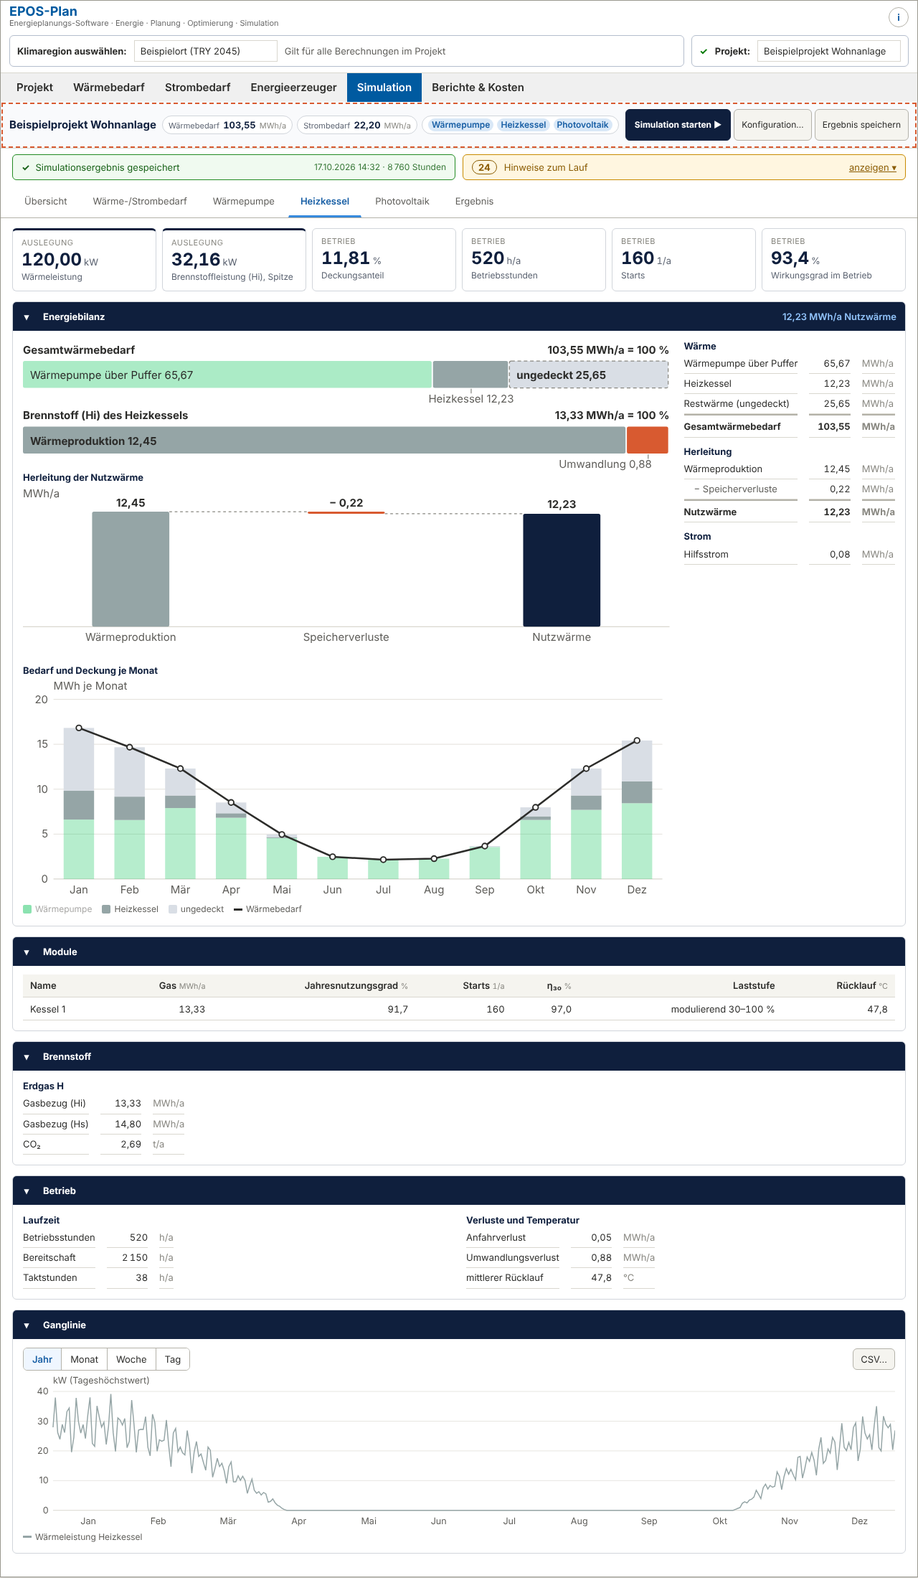
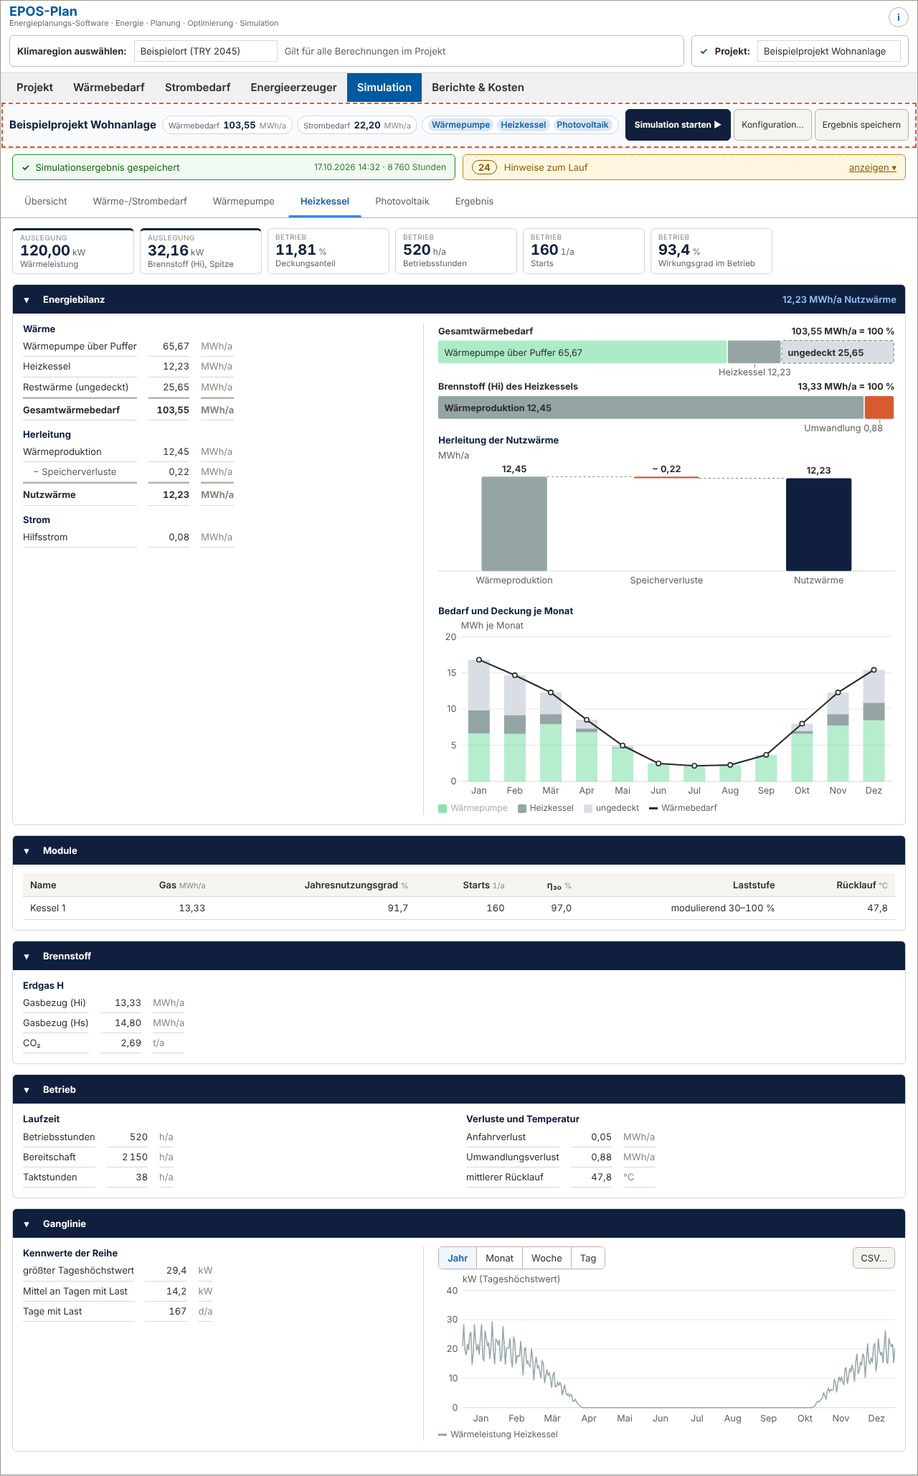
Mockup Simulationsseite: Tabellen links, schmalere Grafiken, Energiefluss klappbar
Rueckmeldung des Anwenders vom 17.10.2026: In jeder Karte mit Grafik
steht das Zahlenraster links (45 %), die Grafik rechts (55 %); Bilanz-
balken, Wasserfall, Monatssaeulen, Energiefluss und Ganglinie auf
schmalere Bildbreite umgestellt, Ringe mit Zahlen links. Kennzahl-
kacheln 170 x 64 px, Zahl 20 px, Beschriftungen einzeilig. Energiefluss
der Uebersicht mit Raster Quellen/Nutzen, als Vorgabe eingeklappt;
Erlaeuterung (Regeln, SD-Q3) angepasst. Abzuege A und B neu.

Claude-Session: https://claude.ai/code/session_01FcdHgdFFFApse4Gup4fXJi

diff --git a/Dokumentation/aktuell/Mockups/Simulationsseite_Neuordnung.html b/Dokumentation/aktuell/Mockups/Simulationsseite_Neuordnung.html
@@ -21,8 +21,10 @@
     A "Kopfband" (Empfehlung): die Spalte entfaellt; Kontextband in einer Zeile ueber dem Ergebnis,
       darunter Meldezeile (Erfolgsbanner | Laufband), Reiterleiste in voller Breite, Blatt.
     B "Schmale Seitenleiste": Spalte 232 px, haftend, mit Kennzahlen, Knoepfen und senkrechten Reitern.
-  REITERSCHEMA (jedes Blatt, Reihenfolge fest): 1 Kennzahlkacheln (Auslegung zuerst) - 2 Energiebilanz
-  (Grafik | dl-Raster) - 3 Energiefluss (nur Uebersicht) - 4 Betrieb und Module - 5 Ganglinie.
+  REITERSCHEMA (jedes Blatt, Reihenfolge fest): 1 Kennzahlkacheln (Auslegung zuerst, rund 64 px hoch) -
+  2 Energiebilanz (dl-Raster links | Grafik rechts, rund 55 % der Kartenbreite) - 3 Energiefluss (nur
+  Uebersicht, eingeklappt als Vorgabe) - 4 Betrieb und Module - 5 Ganglinie (Kennwerte links | Bild rechts).
+  Rueckmeldung des Anwenders 17.10.2026: Tabellen links, Grafiken schmaler, Kacheln kleiner, Energiefluss klappbar.
 
   ALLE ZAHLEN SIND BEISPIELWERTE, in sich stimmig (MWh/a, gerundet auf 0,01):
     Waerme   Bedarf 103,55 = Heizung 88,20 + Warmwasser 15,35
@@ -40,7 +42,7 @@
   Keine Hersteller- oder Produktdaten; Namen neutral ("Kessel 1", "Modul 1", "WR 1").
 
   BEDIENBAR: Umschalter A | B, die sechs Reiter (Ergebnis nur Platzhalter), Zoomleiste und Gruppenkoepfe
-  (klappen). Das Mockup RECHNET NICHTS und schreibt nichts; die Knoepfe melden nur.
+  (klappen). Adresszusatz ?v=a|b&r=<reiter>&f=auf waehlt Variante, Reiter und den offenen Energiefluss. Das Mockup RECHNET NICHTS und schreibt nichts; die Knoepfe melden nur.
   EIGENSTAENDIG: kein CDN, keine Schriftdatei von aussen; Grafiken als inline-SVG aus dem Skript.
   FARBEN: Token woertlich aus EPOS.UI/wwwroot/epos-ui.css (:root), Reihenfarben woertlich aus
   EPOS.UI.Daten/Simulation/SimulationErgebnisHuelle.Bilder.cs (R_WP, R_KESSEL, R_HEIZSTAB, R_REST_GRAU);
@@ -218,14 +220,14 @@ button { font: inherit; }
 .mitleiste .meldezeile { padding: 12px 16px 0; }
 
 /* ---- Blatt: Kacheln ---------------------------------------------------- */
-.kacheln { display: grid; grid-template-columns: repeat(6, minmax(0, 1fr)); gap: 8px; margin-bottom: 14px; }
-.kachel { display: flex; flex-direction: column; gap: 2px; padding: 10px 12px; background: var(--epos-karte-flaeche);
+.kacheln { display: grid; grid-template-columns: repeat(6, minmax(0, 170px)); gap: 8px; margin-bottom: 14px; }
+.kachel { display: flex; flex-direction: column; gap: 0; height: 64px; justify-content: center; padding: 4px 10px; background: var(--epos-karte-flaeche);
   border: 1px solid var(--epos-karte-rahmen); border-radius: var(--epos-ecke); color: var(--epos-karte-text); min-width: 0; }
 .kachel--auslegung { border-top: 3px solid var(--epos-karte-titel); }
-.kachel .k-art { font-size: 11px; text-transform: uppercase; letter-spacing: .04em; color: var(--epos-text-sehr-leise); }
-.kachel .k-wert { font-size: 24px; line-height: 1.15; font-weight: 700; color: var(--epos-karte-titel); font-variant-numeric: tabular-nums; white-space: nowrap; }
-.kachel .k-wert small { font-size: 13px; font-weight: 400; color: var(--epos-karte-text); margin-left: 3px; }
-.kachel .k-titel { font-size: 12px; color: var(--epos-karte-text); }
+.kachel .k-art { font-size: 10px; line-height: 1.3; white-space: nowrap; overflow: hidden; text-overflow: ellipsis; text-transform: uppercase; letter-spacing: .04em; color: var(--epos-text-sehr-leise); }
+.kachel .k-wert { font-size: 20px; line-height: 1.15; font-weight: 700; color: var(--epos-karte-titel); font-variant-numeric: tabular-nums; white-space: nowrap; }
+.kachel .k-wert small { font-size: 12px; font-weight: 400; color: var(--epos-karte-text); margin-left: 3px; }
+.kachel .k-titel { font-size: 11.5px; line-height: 1.3; color: var(--epos-karte-text); white-space: nowrap; overflow: hidden; text-overflow: ellipsis; }
 .kachel--leer .k-wert { color: var(--epos-text-sehr-leise); }
 
 /* ---- Blatt: Gruppenkopf und Karte -------------------------------------- */
@@ -237,7 +239,8 @@ button { font: inherit; }
 .gruppenkopf .summe { color: var(--epos-gruppenkopf-summe); font-weight: 600; }
 .gruppe-inhalt { padding: 12px 14px 14px; }
 .gruppe.zu .gruppe-inhalt { display: none; }
-.zweispaltig { display: grid; grid-template-columns: minmax(0, 1fr) max-content; gap: 20px; align-items: start; }
+.zweispaltig { display: grid; grid-template-columns: minmax(0, 45fr) minmax(0, 55fr); gap: 20px; align-items: start; }
+.zweispaltig > .grafikspalte { border-left: 1px solid var(--epos-rahmen-leise); padding-left: 20px; min-width: 0; }
 .unterteil + .unterteil { margin-top: 14px; }
 .unterkopf { font-weight: 700; color: var(--epos-karte-titel); margin: 0 0 4px; }
 .legende { display: flex; flex-wrap: wrap; gap: 4px 14px; margin: 4px 0 0; padding: 0; list-style: none; font-size: 12px; color: var(--epos-text-leise); }
@@ -267,7 +270,7 @@ table.raster { border-collapse: collapse; width: 100%; }
 .betrieb-raster { display: grid; grid-template-columns: minmax(0, 1fr) minmax(0, 1fr); gap: 20px; }
 
 /* ---- Ringe, Ganglinie -------------------------------------------------- */
-.ringzeile { display: grid; grid-template-columns: 220px 220px minmax(0, 1fr); gap: 20px; align-items: center; }
+.ringpaar { display: grid; grid-template-columns: minmax(0, 190px) minmax(0, 190px); gap: 16px; justify-content: center; }
 .ringlegende h4 { margin: 8px 0 2px; font-size: 13px; color: var(--epos-karte-titel); }
 .ringlegende h4:first-child { margin-top: 0; }
 .zoomleiste { display: flex; align-items: center; gap: 6px; margin-bottom: 6px; }
@@ -383,11 +386,11 @@ svg.grafik .halo { paint-order: stroke; stroke: #fff; stroke-width: 3px; stroke-
 <section>
   <h2>Regeln des Schemas</h2>
   <ol>
-    <li><b>Kennzahlkacheln</b> — eine Zeile, fünf bis sechs Kacheln; Auslegung (dunkle Oberkante) zuerst, dann Betrieb.</li>
-    <li><b>Energiebilanz</b> — Gruppenkopf, links Grafik (Bilanzbalken, Herleitung als Wasserfall, Monatssäulen mit dem Erzeuger des Blattes hervorgehoben), rechts das dl-Raster Beschriftung | Zahl | Einheit mit fetter Summenzeile.</li>
-    <li><b>Energiefluss</b> — nur auf der Übersicht: Sankey von den Quellen über Hausnetz und Wandler zum Nutzen, darunter die Ringe Wärme- und Stromdeckung.</li>
+    <li><b>Kennzahlkacheln</b> — eine Zeile, fünf bis sechs Kacheln, je höchstens 170 × 64 px (Zahl 20 px, Rubrik und Beschriftung einzeilig); Auslegung (dunkle Oberkante) zuerst, dann Betrieb.</li>
+    <li><b>Energiebilanz</b> — Gruppenkopf, links das dl-Raster Beschriftung | Zahl | Einheit mit fetter Summenzeile (rund 45 %), rechts die Grafik (rund 55 %: Bilanzbalken, Herleitung als Wasserfall, Monatssäulen mit dem Erzeuger des Blattes hervorgehoben). Dieselbe Teilung gilt für jede Karte mit Grafik: Zahlen links, Bild rechts.</li>
+    <li><b>Energiefluss</b> — nur auf der Übersicht, eigener Gruppenkopf, als Vorgabe eingeklappt (Kopfzeile mit Kurzsumme „Quellen 132,93 MWh/a → Nutzen“); aufgeklappt links Quellen und Nutzen als Raster, rechts das Sankey über Hausnetz und Wandler. Darunter, immer sichtbar, die Ringe Wärme- und Stromdeckung und die Bilanz.</li>
     <li><b>Betrieb und Module</b> — Gruppenköpfe (einklappbar): Modultabelle, Brennstoff, Betrieb.</li>
-    <li><b>Ganglinie</b> — zuletzt, mit Zoomleiste Jahr | Monat | Woche | Tag und „CSV…“.</li>
+    <li><b>Ganglinie</b> — zuletzt; links Kennwerte der Reihe, rechts das Bild mit Zoomleiste Jahr | Monat | Woche | Tag und „CSV…“.</li>
   </ol>
 </section>
 <section class="breit">
@@ -432,7 +435,7 @@ svg.grafik .halo { paint-order: stroke; stroke: #fff; stroke-width: 3px; stroke-
   <ul>
     <li><b>SD-Q1</b> Variante A (Kopfband) oder B (schmale Seitenleiste)? Empfehlung A.</li>
     <li><b>SD-Q2</b> Kacheln je Reiter: die Auswahl oben bestätigen oder ändern (höchstens sechs).</li>
-    <li><b>SD-Q3</b> Energiefluss nur auf der Übersicht oder je Technologiereiter mit hervorgehobenem Erzeuger?</li>
+    <li><b>SD-Q3</b> Energiefluss: in der Übersicht als eigener Gruppenkopf, eingeklappt als Vorgabe (Vorschlag nach Rückmeldung des Anwenders). Offen bleibt, ob er auch je Technologiereiter mit hervorgehobenem Erzeuger erscheint.</li>
     <li><b>SD-Q4</b> Betriebsblöcke einklappbar, mit gemerktem Zustand je Anwender?</li>
     <li><b>SD-Q5</b> Ganglinie unten im Blatt oder als eigener Unterreiter?</li>
   </ul>
@@ -481,14 +484,14 @@ const esc = s => String(s).replace(/&/g, "&amp;").replace(/</g, "&lt;");
 // ======================================================================= Bausteine
 function kacheln(liste) {
   return '<div class="kacheln">' + liste.map(k =>
-    `<div class="kachel${k.a ? " kachel--auslegung" : ""}${k.w === null ? " kachel--leer" : ""}">` +
+    `<div class="kachel${k.a ? " kachel--auslegung" : ""}${k.w === null ? " kachel--leer" : ""}" title="${k.t}">` +
     `<span class="k-art">${k.a ? "Auslegung" : "Betrieb"}</span>` +
     `<span class="k-wert">${k.w === null ? "—" : k.w}<small>${k.e}</small></span>` +
     `<span class="k-titel">${k.t}</span></div>`).join("") + "</div>";
 }
-function gruppe(titel, inhalt, summeText) {
-  return `<section class="gruppe"><button type="button" class="gruppenkopf" aria-expanded="true">` +
-    `<span class="sym">▾</span><span>${titel}</span><span class="summe">${summeText || ""}</span></button>` +
+function gruppe(titel, inhalt, summeText, zu) {
+  return `<section class="gruppe${zu ? " zu" : ""}"><button type="button" class="gruppenkopf" aria-expanded="${!zu}">` +
+    `<span class="sym">${zu ? "▸" : "▾"}</span><span>${titel}</span><span class="summe">${summeText || ""}</span></button>` +
     `<div class="gruppe-inhalt">${inhalt}</div></section>`;
 }
 function werte(bloecke) {
@@ -517,7 +520,7 @@ function tabelle(kopf, zeilen, summenzeile) {
 
 // ---- Bilanzbalken: 100 % = Gesamtwert, Segmente mit Beschriftung -------------------------------
 function bilanzbalken(balken) {
-  const B = 720, passt = (seg, ges) => B * seg.w / ges > `${seg.t} ${zahl(seg.w, 2)}`.length * 6.6 + 12;
+  const B = 600, passt = (seg, ges) => B * seg.w / ges > `${seg.t} ${zahl(seg.w, 2)}`.length * 6.6 + 12;
   const zeilen = balken.map(b => b.teile.filter(seg => !passt(seg, b.gesamt)).length);
   const hoehe = balken.reduce((h, b, i) => h + 58 + Math.max(zeilen[i], 1) * 15, 0);
   let s = `<svg class="grafik" viewBox="0 0 ${B} ${hoehe}" role="img" aria-label="Bilanzbalken">`;
@@ -548,7 +551,7 @@ function bilanzbalken(balken) {
 
 // ---- Wasserfall: senkrechte Stufen ---------------------------------------------------------------
 function wasserfall(stufen, einheit) {
-  const B = 720, H = 186, unten = 156, oben = 28, n = stufen.length, spalte = B / n, bw = Math.min(86, spalte * 0.56);
+  const B = 600, H = 190, unten = 160, oben = 36, n = stufen.length, spalte = B / n, bw = Math.min(86, spalte * 0.56);
   let max = 0, lauf = 0;
   for (const st of stufen) { if (st.art === "summe") lauf = st.w; else lauf += st.w; max = Math.max(max, lauf); }
   const y = v => unten - (unten - oben) * v / max;
@@ -573,7 +576,7 @@ function wasserfall(stufen, einheit) {
 
 // ---- Monatssaeulen: gestapelt, Bedarf als Linie -------------------------------------------------
 function monatssaeulen(reihen, linie, extraLinie) {
-  const B = 720, H = 246, l = 34, r = 8, oben = 22, unten = 222;
+  const B = 600, H = 236, l = 30, r = 4, oben = 22, unten = 212;
   const sums = MONATE.map((_, m) => summe(reihen.map(rh => rh.d[m])));
   const max = Math.ceil(Math.max(...sums, ...(linie || [0]), ...(extraLinie ? extraLinie.d : [0])) / 4) * 4;
   const y = v => unten - (unten - oben) * v / max;
@@ -620,9 +623,9 @@ function ring(teile, mitte, unter) {
 
 // ---- Energiefluss (Sankey) -----------------------------------------------------------------------
 function energiefluss() {
-  const k = 2.05, gap = 16, nw = 14, X = [190, 450, 720, 1000], oben = 26;
+  const k = 1.7, gap = 14, nw = 12, X = [112, 248, 380, 512], oben = 26, BREITE = 640;
   const N = {
-    rest:  { c: 0, t: "Wärme ungedeckt", f: F.rest },
+    rest:  { c: 0, t: "ungedeckt", f: F.rest },
     gas:   { c: 0, t: "Gas (Hi)", f: F.gas },
     umw:   { c: 0, t: "Umweltwärme", f: F.umwelt },
     pv:    { c: 0, t: "Photovoltaik", f: F.pv },
@@ -658,7 +661,7 @@ function energiefluss() {
   const ausOff = new Map(), einOff = new Map();
   for (const v of V.slice().sort((p, q) => (N[p[1]].y - N[q[1]].y))) { const a = N[v[0]]; ausOff.set(v, a.oa); a.oa += v[2] * k; }
   for (const v of V.slice().sort((p, q) => (N[p[0]].y - N[q[0]].y))) { const b = N[v[1]]; einOff.set(v, b.oe); b.oe += v[2] * k; }
-  let s = `<svg class="grafik" viewBox="0 0 1200 ${H.toFixed(0)}" role="img" aria-label="Energiefluss">`;
+  let s = `<svg class="grafik" viewBox="0 0 ${BREITE} ${H.toFixed(0)}" role="img" aria-label="Energiefluss">`;
   for (const v of V) {
     const a = N[v[0]], b = N[v[1]], h = v[2] * k;
     const x0 = X[a.c] + nw, x1 = X[b.c], y0 = a.y + ausOff.get(v), y1 = b.y + einOff.get(v), xm = (x0 + x1) / 2;
@@ -668,19 +671,21 @@ function energiefluss() {
   for (const [id, n] of Object.entries(N)) {
     s += `<rect x="${X[n.c]}" y="${n.y.toFixed(1)}" width="${nw}" height="${Math.max(n.h, 2).toFixed(1)}" fill="${n.f}"${id === "rest" ? ' stroke="#888780" stroke-dasharray="3 2"' : ""}/>`;
     const my = n.y + n.h / 2;
-    const txt = `<tspan class="fett">${n.t}</tspan> ${zahl(n.w, 2)}`;
-    if (n.c === 0) s += `<text x="${X[0] - 8}" y="${(my + 4).toFixed(1)}" text-anchor="end">${txt}</text>`;
-    else if (n.c === 3) s += `<text x="${X[3] + nw + 8}" y="${(my + 4).toFixed(1)}">${txt}</text>`;
-    else s += `<text x="${X[n.c] + nw + 6}" y="${(n.y - 5).toFixed(1)}" class="halo">${txt}</text>`;
+    const zwei = (x, y, anker) => `<text x="${x}" y="${(y - 2).toFixed(1)}" text-anchor="${anker}" class="fett">${n.t}</text>` +
+      `<text x="${x}" y="${(y + 11).toFixed(1)}" text-anchor="${anker}" class="leise">${zahl(n.w, 2)}</text>`;
+    if (n.c === 0) s += zwei(X[0] - 6, my, "end");
+    else if (n.c === 3) s += zwei(X[3] + nw + 6, my, "start");
+    else s += `<text x="${n.c === 2 ? X[n.c] + nw : X[n.c] + nw + 4}" y="${(n.y - 5).toFixed(1)}" text-anchor="${n.c === 2 ? "end" : "start"}" class="halo"><tspan class="fett">${n.t}</tspan> ${zahl(n.w, 2)}</text>`;
   }
   ["Quellen", "Hausnetz", "Wandler", "Nutzen"].forEach((t, c) =>
-    s += `<text x="${c === 0 ? X[0] + nw : X[c]}" y="12" text-anchor="${c === 0 ? "end" : "start"}" class="leise">${t} · MWh/a</text>`);
+    s += `<text x="${c === 0 ? X[0] + nw : X[c]}" y="12" text-anchor="${c === 0 ? "end" : "start"}" class="leise">${t}</text>`);
+  s += `<text x="${BREITE}" y="12" text-anchor="end" class="leise">MWh/a</text>`;
   return s + "</svg>";
 }
 
 // ---- Ganglinie -----------------------------------------------------------------------------------
-function ganglinie(art, farbe, maxKw) {
-  const B = 1160, H = 204, l = 40, oben = 22, unten = 180;
+function ganglinie(art, farbe, maxKw, kenn) {
+  const B = 600, H = 200, l = 32, oben = 22, unten = 176;
   const achse = Math.ceil(maxKw / 20) * 20;
   const y = v => unten - (unten - oben) * v / achse;
   let d = "";
@@ -692,6 +697,7 @@ function ganglinie(art, farbe, maxKw) {
     else if (art === "pv") v = maxKw * (0.15 + 0.6 * (1 - winter)) * (0.45 + 0.55 * rausch);
     else if (art === "wp") v = maxKw * Math.min(0.92, 0.12 + 0.8 * winter * (0.7 + 0.3 * rausch));
     else v = maxKw * (0.08 + 0.85 * winter * (0.75 + 0.25 * rausch));
+    kenn.max = Math.max(kenn.max || 0, v); if (v > 0.5) { kenn.tage = (kenn.tage || 0) + 1; kenn.summe = (kenn.summe || 0) + v; }
     d += `${t ? "L" : "M"}${(l + (B - l) * t / 364).toFixed(1)},${y(v).toFixed(1)} `;
   }
   let s = `<svg class="grafik" viewBox="0 0 ${B} ${H}" role="img" aria-label="Ganglinie">`;
@@ -707,11 +713,17 @@ function ganglinienblock(titel, art, farbe, maxKw) {
   const zoom = '<div class="zoomleiste"><span class="seg" role="group" aria-label="Zeitraum">' +
     ["Jahr", "Monat", "Woche", "Tag"].map((z, i) => `<button type="button" data-zoom="${z}" aria-pressed="${i === 0}">${z}</button>`).join("") +
     '</span><span class="fueller"></span><button type="button" class="knopf knopf--klein" data-meldung="Exportiert die Reihe als CSV.">CSV…</button></div>';
-  return gruppe("Ganglinie", zoom + ganglinie(art, farbe, maxKw) + legende([{ f: farbe, t: titel, l: true }]));
+  const kenn = {}, bild = ganglinie(art, farbe, maxKw, kenn);
+  const links = werte([{ kopf: "Kennwerte der Reihe", zeilen: [
+    { t: "größter Tageshöchstwert", w: zahl(kenn.max, 1), u: "kW" },
+    { t: "Mittel an Tagen mit Last", w: zahl(kenn.summe / kenn.tage, 1), u: "kW" },
+    { t: "Tage mit Last", w: String(kenn.tage), u: "d/a" }] }]);
+  return gruppe("Ganglinie", zweispaltig(links, zoom + bild + legende([{ f: farbe, t: titel, l: true }])));
 }
 function energiebilanz(grafikHtml, werteHtml, summeText) {
-  return gruppe("Energiebilanz", `<div class="zweispaltig"><div>${grafikHtml}</div><div>${werteHtml}</div></div>`, summeText);
+  return gruppe("Energiebilanz", zweispaltig(werteHtml, grafikHtml), summeText);
 }
+function zweispaltig(links, rechts) { return `<div class="zweispaltig"><div>${links}</div><div class="grafikspalte">${rechts}</div></div>`; }
 function teil(kopf, inhalt) { return `<div class="unterteil"><p class="unterkopf">${kopf}</p>${inhalt}</div>`; }
 
 // ======================================================================= Blaetter
@@ -735,19 +747,33 @@ const BLAETTER = {
   uebersicht: { t: "Übersicht", html: () =>
     kacheln([
       { a: 1, w: "103,55", e: "MWh/a", t: "Wärmebedarf" }, { w: "75,2", e: "%", t: "Wärmedeckung" },
-      { w: "25,65", e: "MWh/a", t: "Restwärme" }, { a: 1, w: "46,21", e: "MWh/a", t: "Strombedarf mit Wärmeerzeugern" },
+      { w: "25,65", e: "MWh/a", t: "Restwärme" }, { a: 1, w: "46,21", e: "MWh/a", t: "Strombedarf mit Erzeugern" },
       { w: "42,8", e: "%", t: "Stromdeckung" }, { w: "26,43", e: "MWh/a", t: "Reststrom (Netzbezug)" }]) +
-    gruppe("Energiefluss", energiefluss() + legende([
+    gruppe("Energiefluss", zweispaltig(werte([
+        { kopf: "Quellen", zeilen: [
+          { t: "Gas (Hi)", w: "13,33", u: "MWh/a" }, { t: "Umweltwärme", w: "44,97", u: "MWh/a" },
+          { t: "Photovoltaik", w: "48,20", u: "MWh/a" }, { t: "Netzstrom", w: "26,43", u: "MWh/a" },
+          { t: "Quellen", w: "132,93", u: "MWh/a", s: 1 }] },
+        { kopf: "Nutzen", zeilen: [
+          { t: "Wärme gedeckt", w: "77,90", u: "MWh/a" }, { t: "Strom Verbraucher", w: "22,20", u: "MWh/a" },
+          { t: "Einspeisung", w: "28,42", u: "MWh/a" }, { t: "Verluste", w: "4,41", u: "MWh/a" },
+          { t: "Nutzen", w: "132,93", u: "MWh/a", s: 1 },
+          { t: "Wärme ungedeckt (keine Quelle)", w: "25,65", u: "MWh/a", e: 1 }] }]),
+      energiefluss() + legende([
       { f: F.gas, t: "Gas" }, { f: F.umwelt, t: "Umweltwärme" }, { f: F.pv, t: "Photovoltaik" }, { f: F.netz, t: "Netzstrom" },
-      { f: F.verbraucher, t: "Hausnetz" }, { f: F.wp, t: "Wärmepumpe" }, { f: F.hs, t: "Heizstab" }, { f: F.rest, t: "Wärme ungedeckt (gestrichelt)" }]),
-      "158,58 MWh/a umgesetzt") +
-    gruppe("Deckung", `<div class="ringzeile">` +
+      { f: F.verbraucher, t: "Hausnetz" }, { f: F.wp, t: "Wärmepumpe" }, { f: F.hs, t: "Heizstab" }, { f: F.rest, t: "Wärme ungedeckt" }])),
+      "Quellen 132,93 MWh/a → Nutzen", !zustand.flussAuf) +
+    gruppe("Deckung", zweispaltig(werte([
+        { kopf: "Wärme 103,55 MWh/a", zeilen: [
+          { t: "Wärmepumpe", w: "63,4", u: "%" }, { t: "Heizkessel", w: "11,8", u: "%" },
+          { t: "ungedeckt", w: "24,8", u: "%" }, { t: "Wärmedeckung", w: "75,2", u: "%", s: 1 }] },
+        { kopf: "Strom 46,21 MWh/a", zeilen: [
+          { t: "Photovoltaik direkt", w: "42,8", u: "%" }, { t: "Netzbezug", w: "57,2", u: "%" },
+          { t: "Stromdeckung", w: "42,8", u: "%", s: 1 }] }]),
+      `<div class="ringpaar">` +
       ring([{ w: 65.67, f: F.wp }, { w: 12.23, f: F.kessel }, { w: 25.65, f: F.rest }], "75,2 %", "Wärmedeckung") +
-      ring([{ w: 19.78, f: F.pv }, { w: 26.43, f: F.rest }], "42,8 %", "Stromdeckung") +
-      `<div class="ringlegende"><h4>Wärme 103,55 MWh/a</h4>` +
-      legende([{ f: F.wp, t: "Wärmepumpe 65,67 (63,4 %)" }, { f: F.kessel, t: "Heizkessel 12,23 (11,8 %)" }, { f: F.rest, t: "ungedeckt 25,65 (24,8 %)" }]) +
-      `<h4>Strom 46,21 MWh/a</h4>` +
-      legende([{ f: F.pv, t: "Photovoltaik direkt 19,78 (42,8 %)" }, { f: F.rest, t: "Netzbezug 26,43 (57,2 %)" }]) + `</div></div>`) +
+      ring([{ w: 19.78, f: F.pv }, { w: 26.43, f: F.rest }], "42,8 %", "Stromdeckung") + `</div>` +
+      legende([{ f: F.wp, t: "Wärmepumpe" }, { f: F.kessel, t: "Heizkessel" }, { f: F.pv, t: "Photovoltaik direkt" }, { f: F.rest, t: "ungedeckt / Netzbezug" }]))) +
     energiebilanz(
       bilanzbalken([waermeBalken(null), { titel: "Strombedarf", gesamt: 46.21, teile: [
         { t: "Photovoltaik direkt", w: 19.78, f: F.pv }, { t: "Netzbezug", w: 26.43, f: F.netz, hell: 1 }] }]) +
@@ -772,7 +798,7 @@ const BLAETTER = {
   bedarf: { t: "Wärme-/Strombedarf", html: () =>
     kacheln([
       { a: 1, w: "82,0", e: "kW", t: "max. Wärmelast" }, { w: "103,55", e: "MWh/a", t: "Wärmebedarf" },
-      { w: "1" + NB + "263", e: "h/a", t: "Vollbenutzungsstunden Wärme" }, { a: 1, w: "6,4", e: "kW", t: "max. Strombedarf" },
+      { w: "1" + NB + "263", e: "h/a", t: "Vollbenutzung Wärme" }, { a: 1, w: "6,4", e: "kW", t: "max. Strombedarf" },
       { w: "22,20", e: "MWh/a", t: "Strombedarf Verbraucher" }, { a: 1, w: null, e: "", t: "max. Kältelast · nicht aktiv" }]) +
     energiebilanz(
       bilanzbalken([
@@ -799,14 +825,14 @@ const BLAETTER = {
 
   wp: { t: "Wärmepumpe", html: () =>
     kacheln([
-      { a: 1, w: "60,00", e: "kW", t: "Heizleistung (Summe Module)" }, { w: "3,05", e: "", t: "Jahresarbeitszahl" },
+      { a: 1, w: "60,00", e: "kW", t: "Heizleistung der Module" }, { w: "3,05", e: "", t: "Jahresarbeitszahl" },
       { a: 1, w: "−4,5", e: "°C", t: "Bivalenzpunkt" }, { w: "1" + NB + "095", e: "h/a", t: "Vollbenutzungsstunden" },
       { w: "63,4", e: "%", t: "Deckungsanteil" }, { w: "2,00", e: "MWh/a", t: "Heizstab" }]) +
     energiebilanz(
       bilanzbalken([waermeBalken("wp"), { titel: "Wärmeproduktion der Wärmepumpe", gesamt: 66.90, teile: [
         { t: "Umweltwärme", w: 44.97, f: F.umwelt, hell: 1 }, { t: "Strom", w: 21.93, f: F.netz, hell: 1 }] }]) +
       teil("Herleitung der Nutzwärme", wasserfall([
-        { t: "Wärmeproduktion", w: 66.90, art: "summe", f: F.wp }, { t: "Quellwärme Kaskade", w: 0 },
+        { t: "Wärmeproduktion", w: 66.90, art: "summe", f: F.wp }, { t: "Kaskade", w: 0 },
         { t: "Heizstab", w: 2.00 }, { t: "Speicherverluste", w: -3.23 }, { t: "Nutzwärme", w: 65.67, art: "summe" }], "MWh/a")) +
       teil("Bedarf und Deckung je Monat", monatssaeulen(waermeReihen("wp"), W.bedarf) + waermeLegende("wp")),
       werte([
@@ -831,7 +857,7 @@ const BLAETTER = {
 
   kessel: { t: "Heizkessel", html: () =>
     kacheln([
-      { a: 1, w: "120,00", e: "kW", t: "Wärmeleistung" }, { a: 1, w: "32,16", e: "kW", t: "Brennstoffleistung (Hi), Spitze" },
+      { a: 1, w: "120,00", e: "kW", t: "Wärmeleistung" }, { a: 1, w: "32,16", e: "kW", t: "Brennstoff (Hi), Spitze" },
       { w: "11,81", e: "%", t: "Deckungsanteil" }, { w: "520", e: "h/a", t: "Betriebsstunden" },
       { w: "160", e: "1/a", t: "Starts" }, { w: "93,4", e: "%", t: "Wirkungsgrad im Betrieb" }]) +
     energiebilanz(
@@ -859,7 +885,7 @@ const BLAETTER = {
       { t: "Betriebsstunden", w: "520", u: "h/a" }, { t: "Bereitschaft", w: "2" + NB + "150", u: "h/a" }, { t: "Taktstunden", w: "38", u: "h/a" }] }]) +
       werte([{ kopf: "Verluste und Temperatur", zeilen: [
       { t: "Anfahrverlust", w: "0,05", u: "MWh/a" }, { t: "Umwandlungsverlust", w: "0,88", u: "MWh/a" }, { t: "mittlerer Rücklauf", w: "47,8", u: "°C" }] }]) + `</div>`) +
-    ganglinienblock("Wärmeleistung Heizkessel", "kessel", F.kessel, 40) },
+    ganglinienblock("Wärmeleistung Heizkessel", "kessel", F.kessel, 30) },
 
   pv: { t: "Photovoltaik", html: () =>
     kacheln([
@@ -896,11 +922,12 @@ const BLAETTER = {
 const REIHENFOLGE = ["uebersicht", "bedarf", "wp", "kessel", "pv", "ergebnis"];
 
 // ======================================================================= Zustand und Zeichnen
-const zustand = { variante: "a", reiter: "kessel" };
+const zustand = { variante: "a", reiter: "kessel", flussAuf: false };
 try {
   const p = new URLSearchParams(location.search);
   if (p.get("v") === "a" || p.get("v") === "b") zustand.variante = p.get("v");
   if (BLAETTER[p.get("r")]) zustand.reiter = p.get("r");
+  if (p.get("f") === "auf") zustand.flussAuf = true;
 } catch (e) { /* ohne Parameter */ }
 
 function zeichnen() {
